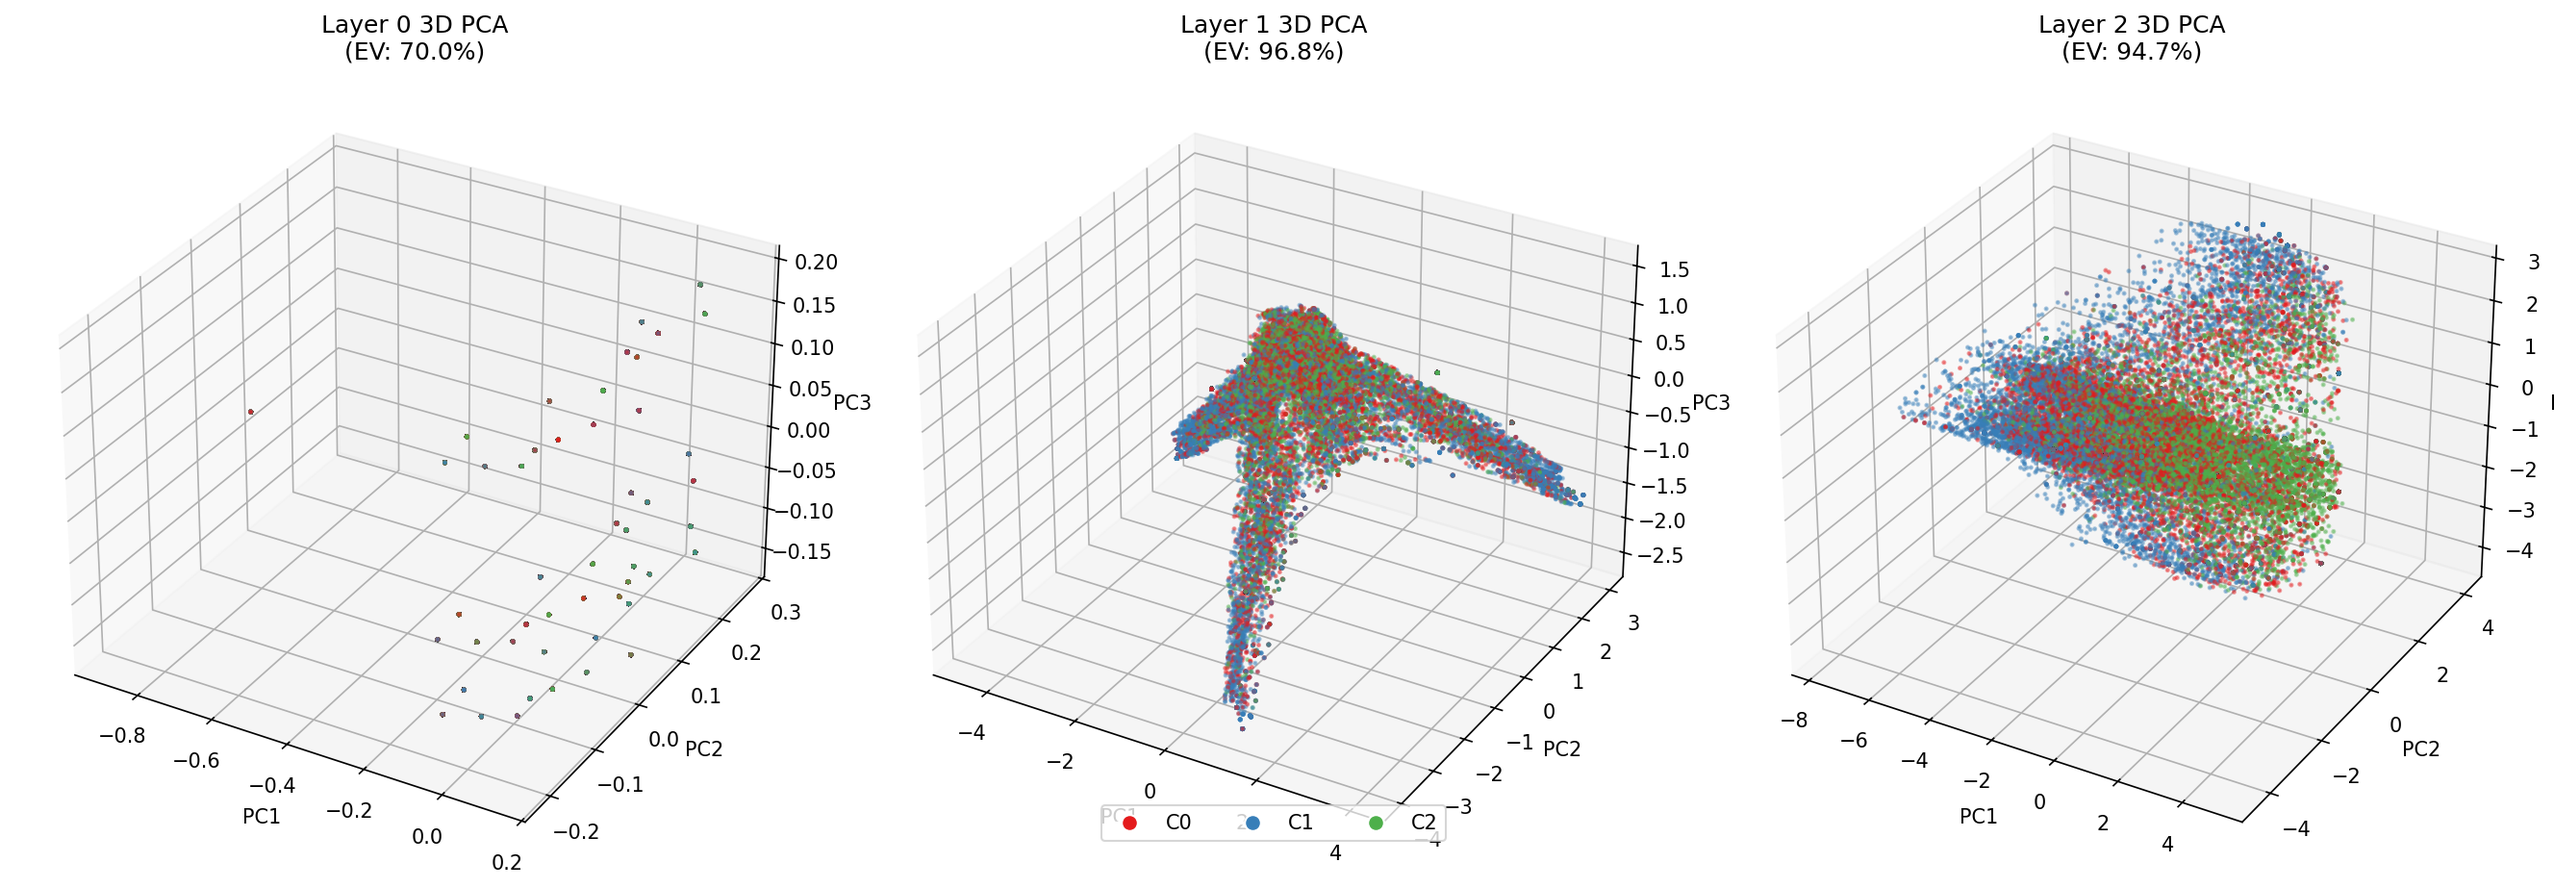
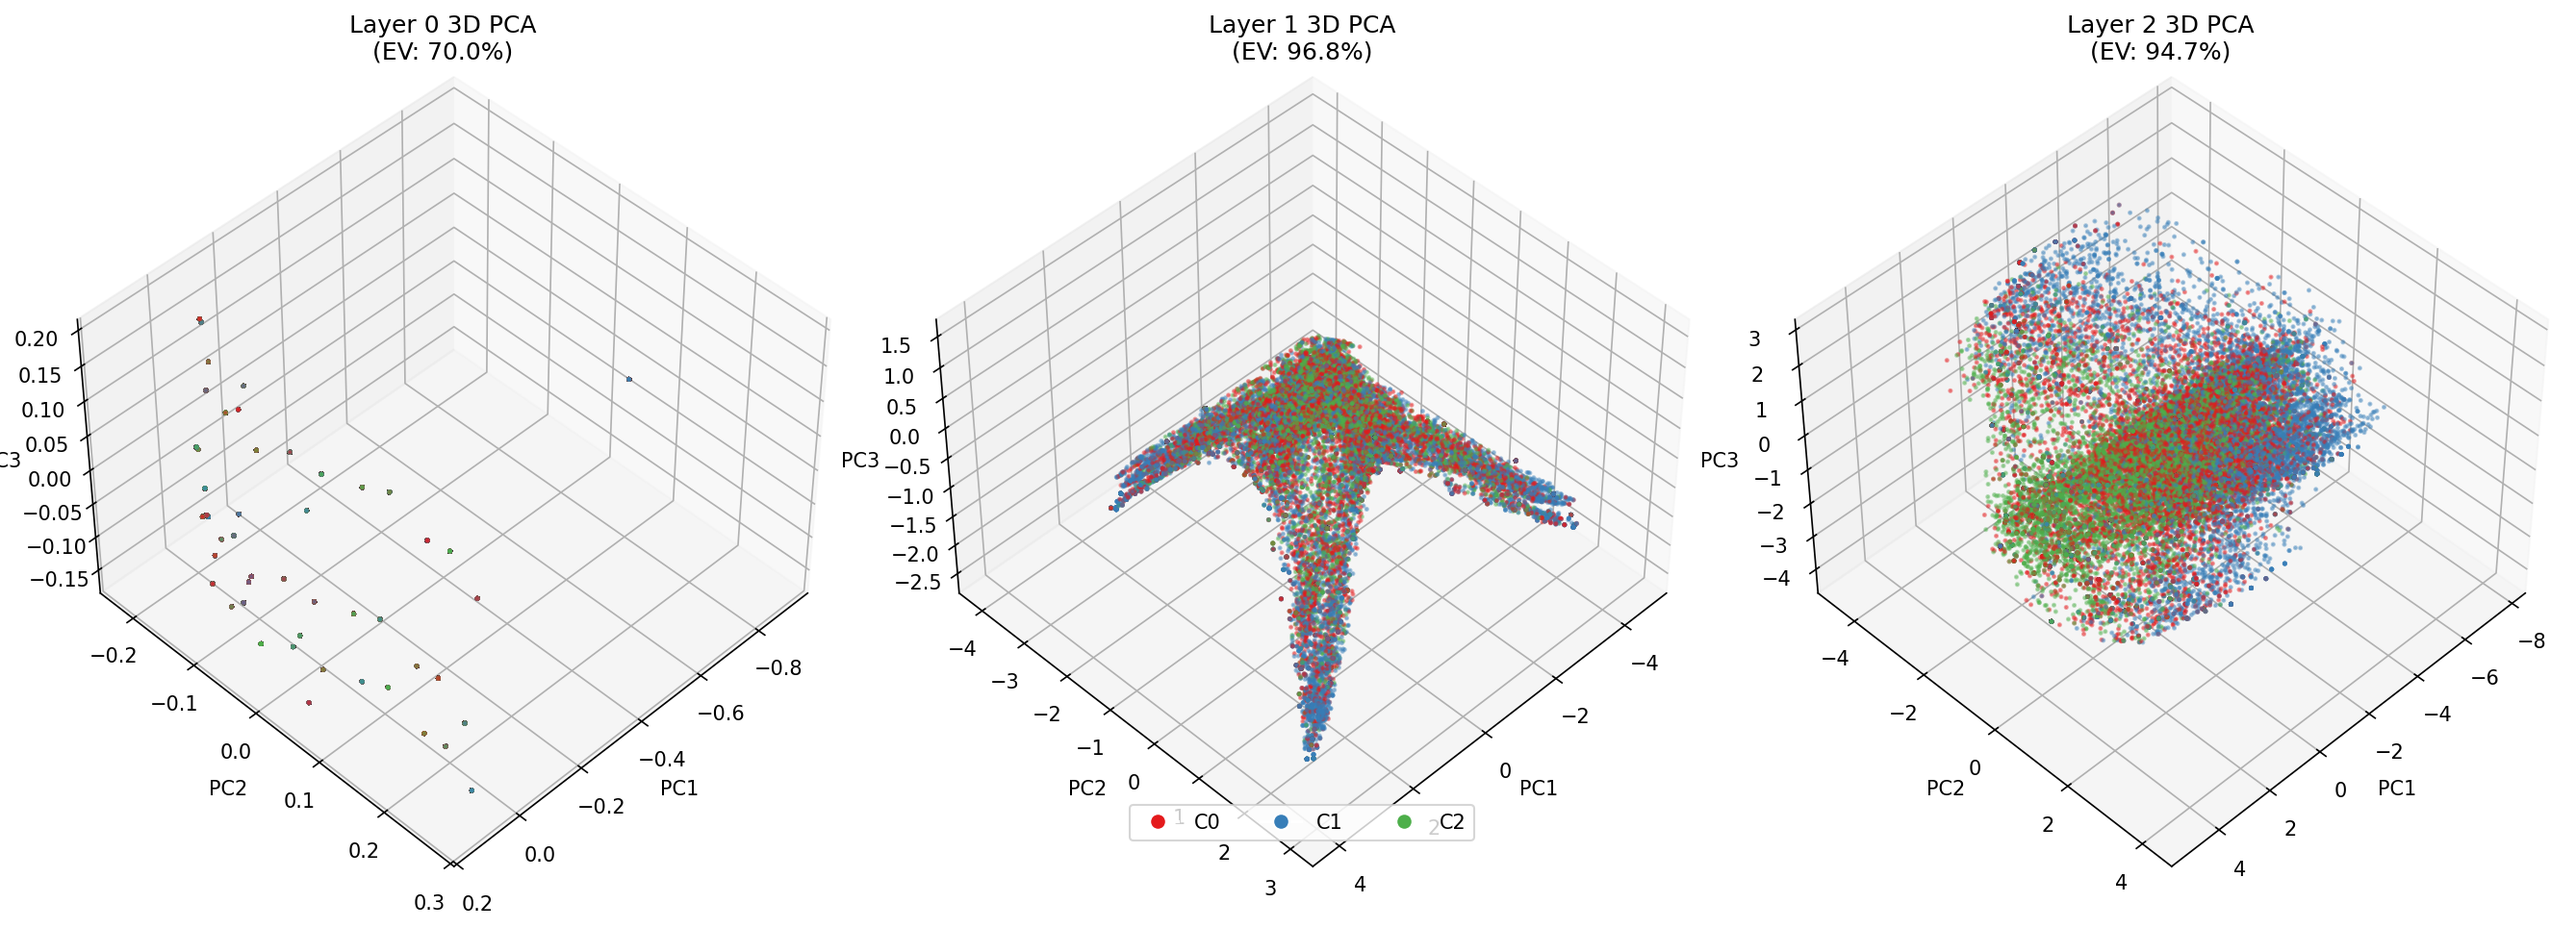
changed angles

diff --git a/part3/analyze_geometry.py b/part3/analyze_geometry.py
@@ -96,6 +96,7 @@ def run_geometry_analysis():
         ax.set_xlabel("PC1")
         ax.set_ylabel("PC2")
         ax.set_zlabel("PC3")
+        ax.view_init(elev=45, azim=45) # Standardized diagonal view
     
     from matplotlib.lines import Line2D
     h = [Line2D([0], [0], marker='o', color='w', label=f'C{i}', markerfacecolor=comp_colors[i], markersize=8) for i in range(3)]
@@ -121,6 +122,7 @@ def run_geometry_analysis():
         ax.set_xlabel("PC1")
         ax.set_ylabel("PC2")
         ax.set_zlabel("PC3")
+        ax.view_init(elev=45, azim=45) # New vertical-diagonal perspective
     
     fig.colorbar(scatter, ax=fig.axes, label="P(S_t=0 | C=0, prefix)", shrink=0.6)
     plt.suptitle("Within-Component C0 Belief 3D Manifold Across Layers")
